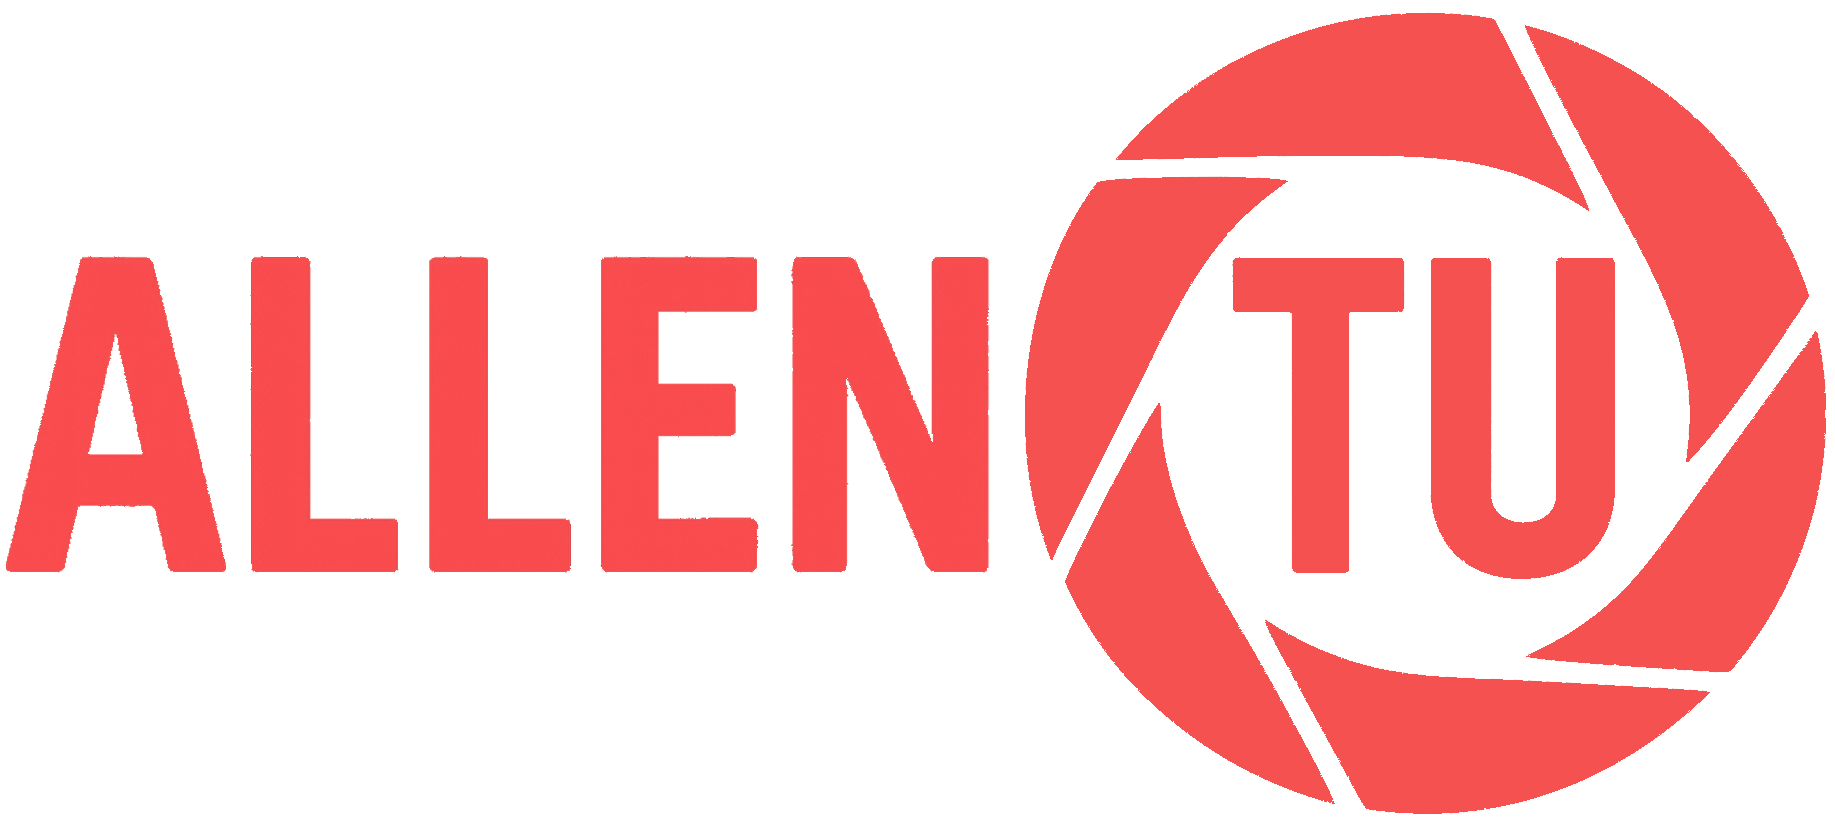
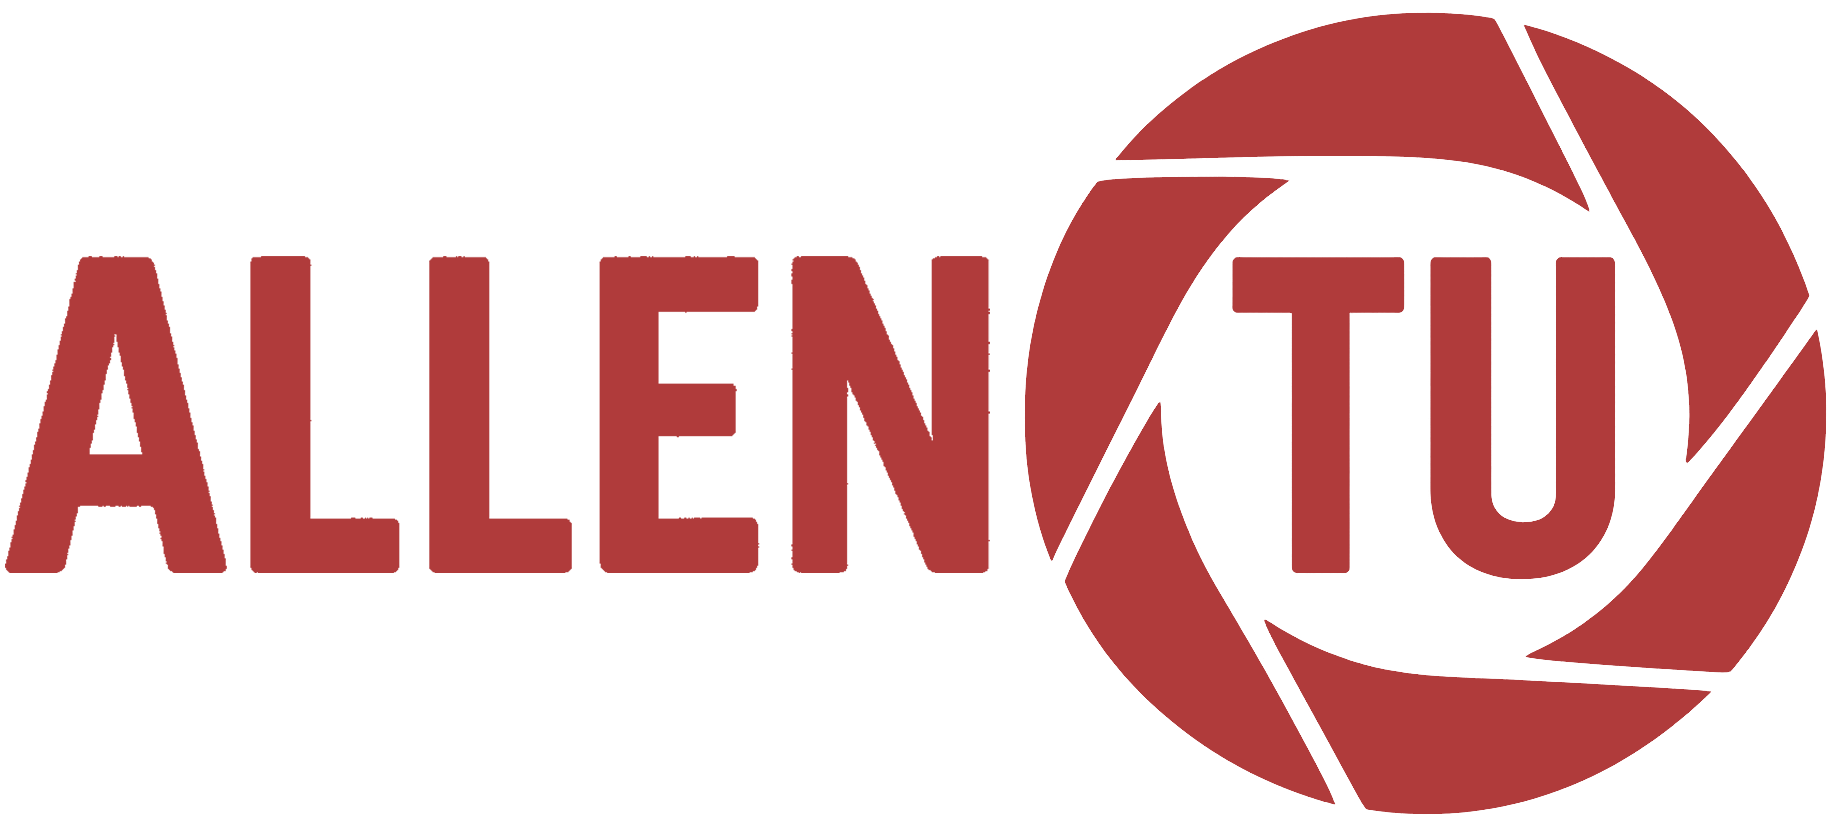
Standardize reds

diff --git a/stylesheets/styles.css b/stylesheets/styles.css
@@ -30,7 +30,7 @@ h2 {
 }
 
 h2 title {
-  color:#a21942;
+  color:#b03b3b;
   font-weight: 500;
 }
 h3, h4, h5, h6 {
